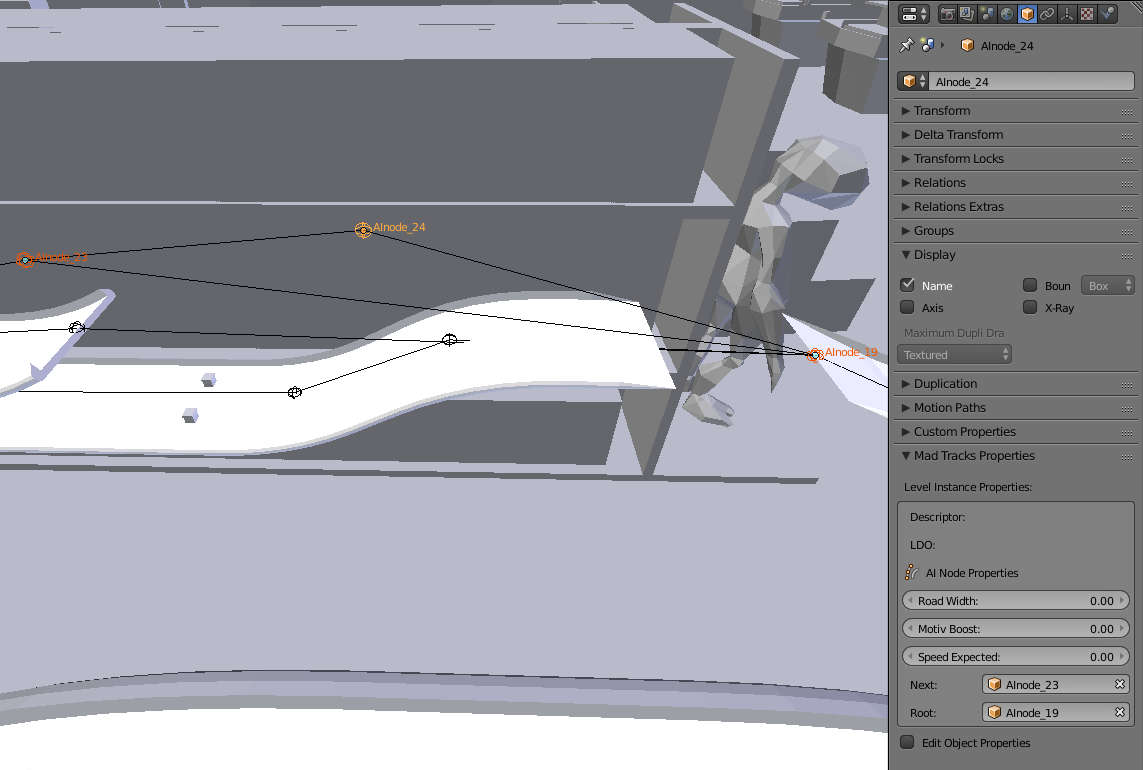
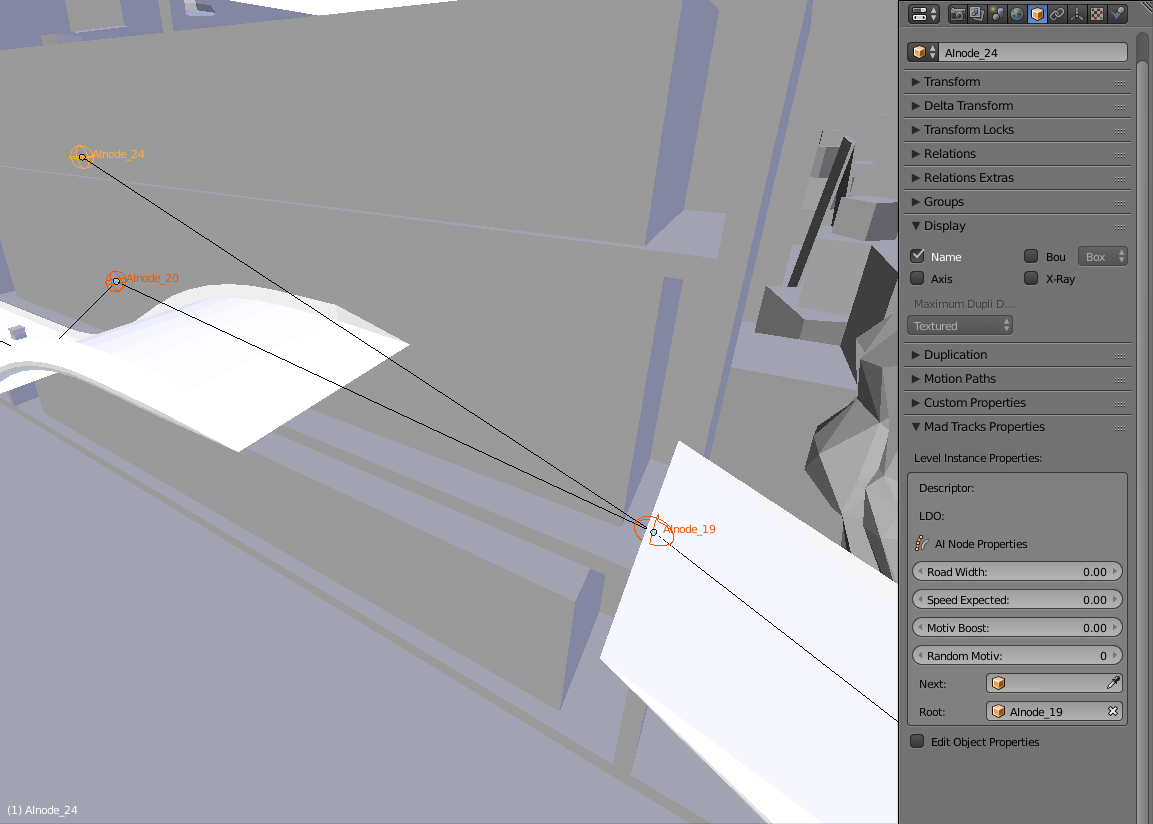
Rework of the add-on guide, document cameras

diff --git a/io_madtracks/operators.py b/io_madtracks/operators.py
@@ -485,7 +485,7 @@ LIGHTMAP EDITOR ----------------------------------------------------------------
 class ButtonLightmapBake(bpy.types.Operator):
     bl_idname = "lightmap.bake_preview"
     bl_label = "Bake Lightmap"
-    bl_description = "Generate the lightmap image and apply it to the scene for preview"
+    bl_description = "(Destructive) Generate the lightmap image and apply it to a lightmesh for preview"
 
     def execute(self, context):
         scene = context.scene
@@ -510,8 +510,12 @@ class ButtonLightmapBake(bpy.types.Operator):
         return wm.invoke_props_dialog(self)
 
     def draw(self, context):
+        obj_idx = context.scene.objects.find("Lightmesh")
         row = self.layout.row()
         row.label("Baking may take a minute.", icon="INFO")
+        if obj_idx == -1:
+            row = self.layout.row()
+            row.label("Objects will be merged together. Proceed?", icon="QUESTION")
 
 
 """

diff --git a/io_madtracks/common.py b/io_madtracks/common.py
@@ -40,6 +40,7 @@ ERRORS = {}  # Dictionary that holds error messages
 # If True, more debug messages will be printed
 DEBUG = True
 
+# NOTE modifying this value will break quite a few things
 SCALE = 1
 
 

diff --git a/docs/ADDON_GUIDE.md b/docs/ADDON_GUIDE.md
@@ -1,135 +1,182 @@
 ## Blender controls
 
-Quick list of the most used key combinations when using the add-on, for those unfamiliar with Blender (there will still be a big learning curve though):
- 
-Move object: ***G + X/Y/Z (+ X/Y/Z for local axis)***, you can enter a distance with the numpad or use the mouse  
-Rotate object: ***R + X/Y/Z (+ X/Y/Z for local axis)***, you can enter an angle with the numpad or use the mouse  
-Duplicate object: ***Alt+D***  
-Reset view on selected object(s): ***Numpad .***  
-Snap 3D cursor to selected object and vice-versa: ***Shift+S***  
-
+Quick list of the most used key combinations when using the add-on for those unfamiliar with Blender (there will be a learning curve).  
 All of these controls should be used in Object mode. Moving or rotating a mesh in Edit mode won't be picked up by the level exporter.
+ 
+Move objects => `G + X/Y/Z (+ X/Y/Z for local axis)`, you can enter a distance with the numpad or use the mouse  
+
+Rotate objects => `R + X/Y/Z (+ X/Y/Z for local axis)`, you can enter an angle with the numpad or use the mouse  
+
+Duplicate objects => `Alt+D`, preferred over `Shift+D`  
+
+Reset 3D view on selected objects => `Numpad .`  
+
+Snap 3D cursor to selected objects and vice-versa (useful before importing assets) => `Shift+S`  
 
 ## Main panel
 
-The main panel is accessible on the left of the 3D view in Object mode (hidden in Edit mode). All add-on features are regrouped here.  
-
 ![Main Panel](../images/main_panel.png)
 
-From top to bottom:  
-**1. Import/Export subpanel** buttons will open the file browser to import/export assets from/to the extracted data.zip file. The extracted gama data folder path pasted in this subpanel is needed to automatically import other necessary files from the folder (like texture files if a model is imported).  
-**2. Trackparts subpanel** buttons will add/select/delete trackparts and help to organize level trackpart sequences in a way the game can understand.  
-**3. AI Paths subpanel** buttons will add/link AI nodes and help to organize level AI paths in a way the game can understand.  
-**4. Lightmap subpanel** buttons will destructively setup the scene for lightmap baking and allow to (re)generate a lightmap texture applied to the scene for preview.
+The main panel is accessible on the left of the 3D view in Object mode (hidden in Edit mode). All add-on features are here. From top to bottom:  
+* **Work folder path**, needed to automatically import other necessary game files (like importing texture files if a model is imported).  
+* **Import/Export** buttons will open the file browser to import/export game files.  
+* **Trackparts subpanel** buttons will create and help to organize trackpart sequences in a way the game can understand.  
+* **AI Paths subpanel** buttons will create and help to organize AI paths in a way the game can understand.  
+* **Lightmap subpanel** buttons will *destructively* setup the scene for lightmap baking and allow to (re)generate a lightmap texture applied to the scene for preview.
+* **Cameras subpanel** buttons will create level intro/outro cameras with movement constraints allowing to edit and preview the in-game result.
 
-### Importing game assets
-
-When clicking on the "Import" button of the main panel, the file explorer opens to let you pick a file from the extracted game data folder (working outside of this folder is possible, but the operator will always look for other needed files in the game data folder).  
-When a file is selected, the file type and import options are displayed at the bottom of the left side bar. INI files are used for many types of game files, so the INI type to import needs to be set correctly in the options depending on the file selected.
+## Importing game assets
 
 ![Import](../images/import.png)
 
-A list of supported files (some partially supported):  
-**.ldo (...\Gfx\models\Geometry)** A static game 3D model with materials  
-**.ini (...\Bin\Descriptors)** A game object descriptor, it can define a movable model, a light, a camera, pickup, game zone...  
-**.ini (...\Bin\Levels)** A list of static model and game object instances with positions and rotations that make up a level  
-**.dam (...\Bin\Levels)** Level settings for game rules, the world to use, intro/outro cameras and more  
-**.gra (...\Bin\Levels)** A sequence of nodes and edges for AI navigation in a level  
-**.ldl (...\Gfx\Lightmaps)** A sequence of static models with UV coordinates of a level lightmap
+When clicking on the "Import" button of the main panel, the file explorer opens to let you pick a file from the work folder (working outside of this folder is possible but not recommended).  
+When a file is selected, the file type and import options are displayed at the bottom of the left side bar.  
+A list of supported file types (some partially supported):  
+* `.ldo (...\Gfx\models\Geometry)`  
+A static game 3D model with materials  
+* `.ini (...\Bin\Descriptors)`  
+A game object descriptor, it can define a movable model, a light, a camera, a pickup, a game area...  
+* `.ini (...\Bin\Levels)`  
+A list of static model and game object instances with positions and rotations that make a level  
+* `.dam (...\Bin\Levels)`  
+Level settings for game rules, the world to use, intro/outro cameras and more  
+* `.gra (...\Bin\Levels)`  
+A sequence of nodes and edges for AI navigation in a level  
+* `.ldl (...\Gfx\Lightmaps)`  
+A sequence of static models with UV coordinates of a level lightmap
+
+If a `.ini` file is selected, the specific INI type needs to be set correctly in the options.
 
 #### Tips
 
-* Don't forget to choose the INI type in the import options, otherwise you will trigger a runtime error when importing a .ini file with the wrong type set.
-
-* When importing a level, importing the .ini file will give you most of the level geometry, but it's sometimes necessary to also import the .dam file since the optional level skybox and world model are stored there. Some levels are located at the bottom of the skybox, far below the 3D view origin.
+* When importing a level, importing the `.ini` file will give you most of the level geometry, but it's sometimes necessary to also import the `.dam` file since the optional level skybox and world geometry are defined there. Some levels are located at the bottom of the skybox, far below the 3D view origin.
 
 * The add-on has trouble importing multiple levels correctly in the same Blender session. It's better to open a new session instead of deleting the previous level from the scene.
 
 ## Making a level
 
-The add-on can be used to import, edit or create a level from scratch. A lot of effort was put in simplifying and automating the level editing process, but you will still need time and motivation to make your first fully-playable level, especially if you are new to Blender.  
-**Important tip**: save your project regularly as Blender can crash randomly when updating the add-on custom properties and links.  
-**Important tip 2**: keep your mouse on any UI field or button to get tooltips. They are the most detailed and up to date add-on documentation.
+The add-on can be used to import, edit or create a level from scratch. A lot of effort was put in simplifying and automating the level editing process, but you will still need perseverance to finish your first fully-playable level, especially if you are new to Blender.  
+After reading this chapter, I encourage you to import original levels and play with them before diving into your own level.
 
-#### Tips
-
-* Importing an existing level .ini file is the recommended way to start making a level, but there will be lots of instances to delete, even with the "Import Raceline" option disabled. After importing, hitting *Space* and typing "Select Pattern" will allow to select all instances of an object you wish to delete by typing part of the object name between wildcard (\*) characters.
+**Save your project regularly** as Blender can crash when updating the add-on custom properties and links.  
+Keep your mouse on any UI button or field to get tooltips.
 
 ### 1) Placing level instances
 
-Level instances in this context is every object which isn't a trackpart (start/finish, checkpoints, road pieces). Those are handled by the trackparts editor (see next chapter).
+Level instances are game assets imported and placed in the scene to make a level. They are exported in the level's `.ini` file with their individual position and rotation.  
+Level instances can either be `.ldo` files or `.ini` descriptors.
+
+![Level instance](../images/level_instance.png)
+
+Taking the tumbling toy bunny as an example, you can import the `US_Toy_Lapin.ldo` file for the model only, or import the `Toy_Lapin.ini` descriptor for the model and the tumbling physics. ("Lapin" means "Rabbit", editing levels will definitely expand your French vocabulary).  
+You can select an instance and go to the Object Properties window to check if it was imported as a static model or as a descriptor. When looking at the bottom right corner of this picture, the name of the descriptor is present, so this bunny will have physics.
+
+In a level editing context, trackparts (starts, checkpoints, finishes, road pieces) are level instances that shouldn't be imported directly. They must be handled with the trackparts editor (see next chapter).
 
 #### Tips
 
-* When importing an instance to add to your level, make sure the the "As Level Instance" import option is checked.
+* Importing an existing level .ini file is the recommended way to start making a level, since some of the environments are actually made of level instances. But there will be lots of level-specific instances to delete, even after disabling the "Import Raceline" option to skip trackparts and collectibles. After importing, hit *Space* and type "Select Pattern" to select all instances of a game asset by typing part of its name between wildcard (\*) characters.
 
-* Instances are imported in the scene at the 3D cursor position. You can right click on a surface in the 3D view to set the cursor position before importing, or else press *Numpad .* after importing to focus on the asset and place it manually.
+* When importing a level instance, make sure the "As Level Instance" import option is checked. This imports an asset in a simplified and reusable way, suited for level editing.
 
-* When rotating an object in the level, hit the *X*, *Y* or *Z* key a second time to rotate on the local axis. This is sometimes much easier than rotating on the global axis.
+* Instances are imported in the scene at the 3D cursor position. You can right click on a surface in the 3D view to set the cursor position there, thanks to the "Cursor Depth" option enabled when setting up the add-on. Else press *Numpad .* after importing to focus on the asset and place it manually.
 
-* When moving an object in the level, hit the *X*, *Y* or *Z* key a second time to translate on the local axis. This is sometimes much easier when moving an object that was rotated.
+* When rotating an instance, hit the *X*, *Y* or *Z* key a second time to rotate on the local axis. This is sometimes much easier than rotating on the global axis.
 
-* Blender gizmos are enabled by default and are fine for simple adjustments, but most of the time it will be quicker to disable them and use the magnet tool instead, which will snap the object to surfaces of other objects when moving it.
+* When moving an instance, hit the *X*, *Y* or *Z* key a second time to translate on the local axis. This is sometimes much easier when the instance has been rotated. Blender gizmos are enabled by default and are fine for simple adjustments, but most of the time it will be quicker to disable them and use the magnet tool instead, which will snap the instance to surfaces of other instances when moving it. Look at the bottom toolbar of the picture above for reference.
+
+* When duplicating an instance, using *Alt+D* is better for convenience and performance since all instances of a game asset will share meshes/materials data (unlike *Shift+D*).
 
 * Importing directionnal light descriptors will make the objects in the 3D view flicker, it will be fixed after rotating the light to the desired sun angle.
 
-* When duplicating an object in the level, using *Alt+D* is better for convenience and performance since objects will share the mesh/material data (unlike *Shift+D*).
-
 ### 2) Creating trackpart sequences
 
-Trackparts are level instances with a twist: they are linked together in sequences for the game to calculate their position/rotation, as some trackparts are marked as "inverted" to reuse models (a right turn is a left turn rotated 90°, a down slope is an up slope rotated 180° etc...).  
-The trackparts editor (Trackparts subpanel of the Main panel) provides buttons to help maintain trackpart sequences and visualize how the game will load them.
+Trackparts are level instances with a twist: they can be linked together in sequences to have their position/rotation calculated by the game at load time. The main reason for this is that some trackparts are marked as "inverted" in their descriptor to reuse models (a right turn is a left turn rotated by 90°, a down slope is an up slope rotated by 180° etc...).  
+The trackparts editor (Trackparts subpanel of the main add-on panel) provides buttons to build trackpart sequences and see how the game will load them.
 
-When clicking on a + button, the default import position is the 3D cursor, or it will be appended to the selected trackpart in the 3D view if there is one.
-Checkpoints can be appended to a trackpart, but they will never be part of a sequence.
+![Trackpart](../images/trackpart.png)
+
+Trackparts `.ini` descriptors are organized by category and can be picked from the dropdown menus. They can also be picked by clicking on a trackpart in the 3D view using the eyedrop tool below the dropdown menus.  
+
+When clicking on the corresponding "+" button, the trackpart will either be:
+* imported at the 3D cursor if no trackpart is selected in the 3D view, as the start of a sequence
+* imported at the endpoint of the trackpart selected in the 3D view, as the next trackpart of a sequence
+
+The 3D view selection is automatically updated to let you click the "+" button consecutively.
+
+Trackparts that mark the start of a sequence are the only ones that will have their position/rotation exported in the level's `.ini` file, the other trackparts will be calculated by the game.
+
+Trackparts that can be respawned from (starts, checkpoints) can be imported at the endpoint of a selected trackpart, but they will always be isolated in their own sequence as they will often need to be raised manually to have their respawn point at the road level (otherwise cars can get stuck after respawning).
 
 ![Trackpart props](../images/trackpart_props.png)
 
-The "Next" object field you see in the bottom right corner of the picture is set automatically when clicking on a + button with a trackpart selected in the 3D view. It sometimes needs to be updated manually to fix trackparts linking, like after replacing the deleted trackpart in the middle of this sequence. The "Select Linked" button in the editor will help you visualize the links since it follows the "Next" property until it is empty or invalid.  
-
-Another case where manually editing the "Next" object field is necessary is to rotate trackparts of a sequence individually to make slopes. Clearing the "Next" field of all the slope trackparts will export their individual location/rotation instead of letting the game compute them, which would result in a flat road.
+The trackparts editor's job is to automatically manage trackpart sequences based on your actions. Sometimes it won't be able to, like after deleting a trackpart from a sequence like in this picture.  
+You can edit the sequences yourself by going to the Object Properties window with a trackpart selected. You will see a "Next" object pointer like in the bottom right corner of the picture, allowing you to tell which trackpart is the next one in the sequence.  
+The "Select Linked" button in the trackparts editor will help you visualize sequences by selecting the "Next" object from the selected trackpart until it is empty or invalid.
 
 ![Trackpart slope](../images/trackpart_slope.png)
 
-Finally, you need to define the checkpoint order. This is done by renaming the checkpoints in alphanumerical order. Make sure the "Use Checkpoint Names" INI export option is enabled when exporting the level instances.
+Another case where manually editing the "Next" object pointer is necessary is to rotate trackparts of a sequence individually to make slopes. Clearing the "Next" field of all the slope trackparts will separate them in their own sequence to avoid the game calculating them as a flat road.
+
+The last button available in the trackparts editor, "Recalculate All", can be used to recalculate all trackparts position/rotation based on the trackpart sequences. You know all sequences are correct when nothing moved after clicking this button, otherwise you need to go back and fix the "Next" object pointers until it is the case.
+
+Finally, you need to define the checkpoint order. This is done by renaming the checkpoint object in alphanumerical order. Make sure the "Use Checkpoint Names" INI export option is enabled when exporting the level instances.
 
 #### Tips
 
-* Importing stock levels will help you understand how trackparts were handled in the original game.
+* Duplicating an entire sequence with *Alt+D* is possible. It can be used to stick two wooden roads side-by-side.
 
-* You will know all trackparts links are correct when nothing moved after clicking the "Recalculate All" editor button, which will also clean up invalid links.
+* "Recalculate All" can be used to stitch two sequences together after manually setting the "Next" object pointer from the end of road 1 to the start of road 2.
 
-* Duplicating an entire sequence with *Alt+D* is possible. It can be used to stick two wooden roads side-by-side, or stitch two roads together by manually setting the "Next" object field from end of road 1 to beginning of road 2 and clicking "Recalculate All".
+* The two tips above allow to easily iterate over a raceline, by duplicating sequences to save them, trying new ideas and stitching them back and forth until you have something that feels good to play.
 
 ### 3) Creating AI paths
 
-AI paths are made of nodes with a position and link(s) to the next node(s). They are used for AI navigation and to define the track boundaries.  
-The AI paths editor (AI Paths subpanel of the Main panel) allows to place AI nodes using the 3D cursor position with automatic linking to the selected node.
+AI paths are used for AI navigation and setting the track limits. They are made of nodes and edges linking two nodes each. This system allows for unlimited branching paths, there is no documented limitation on what the game can handle.  
+The AI paths editor (AI Paths subpanel of the main add-on panel) allows to create AI nodes with automatic linking and visualize how the paths will be exported.
+
+![AI nodes](../images/ai_nodes.png)
+
+When clicking on the "Add Node" button, a node is created at the 3D cursor. If another node is selected in the 3D view, an edge will be drawn between the two nodes. Edges between nodes are updated automatically only when adding a node, but you can update them anytime using the "Redraw Edges" editor button.
 
 ![AI props](../images/ai_props.png)
 
-Similarly to the trackparts editor, the AI paths editor uses the "Next" object field of each AI node for the forward links. But this is not enough for branching paths, since a node has multiple next nodes. For this, AI nodes also have a "Root" object field you need to set manually to point to the root node of the branching paths. All links to a root node will be converted to forward links when exporting the paths. This allows to create and edit complex branching paths rather quickly.  
-AI nodes also have various properties to make the track boundary bigger or smaller, regulate the AI opponents speed and path-taking.
-
-The editor also provides a button to draw the "Next" and "Root" links to visualize how the paths will be exported.  
-AI opponents immediately respawn when they are too far from the path, meaning that jumps often have multiple paths to prevent AI cars from respawning mid-air.  
-
-![AI paths](../images/ai_paths.png)
-
+Similarly to trackparts, you can edit the edges between nodes yourself by going to the Object Properties window with a node selected. You will see a "Next" object pointer like in the bottom right corner of the picture.  
+But this is not enough for branching paths, since a node can only point to a single "Next" node. To solve this, nodes also have a "Root" object pointer you need to set manually to point to the root node of the branching paths. See the picture above as an example: nodes 20 and 24 on the left both have node 19 on the right as their "Root" node.  
+Nodes are renamed with their IDs after exporting the level `.gra` file, but this is not necessary if you click on the eyedrop icon to set the "Next" and "Root" nodes.  
+AI opponents immediately respawn when they are too far from the path, meaning that jumps often have vertical branching paths to prevent AI cars from respawning mid-air (for example if they used a boost at the ramp).  
+Nodes also have properties to adjust the track limits, regulate the AI opponents speed and path-taking.
 
 #### Tips
 
-* Importing stock levels will help you understand how AI paths were handled in the original game. You will for example see that AI paths don't loop at the start even for lap races.
+* Switching to Solid mode in the 3D view makes it much easier to see the AI nodes and edges.
 
-* Switching to Solid mode in the 3D view makes it much easier to see the AI nodes and links.
+* You can select the edges and hit *Tab* to switch to edit mode, this will highlight the paths and show the direction of the edges. Editing the edges themselves doesn't have an effect, they are here for visualization only.
 
-* After drawing the paths, hit *Tab* to switch to edit mode, this will highlight the paths and show the direction of the links.
+* AI paths don't loop at the start even for lap races.
 
-* Level .dam files have a line called "RoadWidth", which is usually set between 25 and 28. This allows to set the base track boundaries. Edit the "Road Width" AI node object property to override the base width at that node, useful when the track surface is wider or smaller than trackparts.
+* Level `.dam` files have a line called "RoadWidth", which is usually set between 25 and 28 (width of trackparts). This allows to set the base track limits at every node. Edit the "Road Width" AI node object property to override the base width at that node. You should do it when the track surface becomes wider or more narrow.
 
-* Don't worry about ".00x" suffixes to AI node names when adding or renaming them, this is accounted for by the exporter. It happens when a node with the same name was previously deleted from the scene.
+### 4) Editing intro/outro cameras
 
-### 4) Creating a lightmap
+Level intro/outro cameras can be used to show the starting grid or the main attraction like for most mini-games in an arena. The cameras are looking at a point in space while rotating around another point. They can also have an up and down movement while rotating.  
+The cameras editor (Cameras subpanel of the main add-on panel) allow to edit, preview and export intro/outro cameras settings.  
+Click the "Create Cameras" editor button to create the intro and outro cameras at the 3D view origin. Each camera has a "LookAt" and a "RotCenter" marker.
+
+![Intro camera](../images/intro_camera.png)
+
+The intro camera markers are pre-selected, move the selection where the intro camera should look at. You can then move only the "RotCenter" marker for an interesting effect (see the picture).  
+Press *Alt+A* to start the camera rotation animation.  
+Press *Numpad 0* to switch between 3D view and camera view (scroll the mouse wheel down to unzoom).  
+Select and move the camera itself on the Z axis to adjust its height (if you're in camera view, click on the rectangle outline to select the camera).  
+Press *Alt+A* again to stop the animation.  
+Press *Ctrl+Shift+DownArrow* to reset the camera rotation before moving it on the X axis to adjust the rotation radius (exit camera view beforehand).
+
+Select the outro camera and press *Ctrl+Numpad 0* to set it as active. Select the outro camera markers and repeat the previous steps.
+
+Once done, click the "Export Cameras" editor button and paste the cameras settings in the level `.dam` file. You can set the "UpSpeed" parameter to 1.00000 to enable the up and down camera movement and adjust other values if needed. The up and down movement will be visible in Blender only after importing the `.dam` file, and you won't be able to edit the cameras freely anymore because of the animation keyframes.
+
+### 5) Creating a lightmap
 
 Disclaimer: this feature is experimental. If you can't or don't want to use a lightmap in your level, leaving the original lightmap as-is should make the game abort loading the lightmap and use its own lighting engine instead, which provides okay lighting without shadows.  
 

diff --git a/README.md b/README.md
@@ -12,13 +12,18 @@ The goal of this project is to import, edit and export them using Blender.
 
 * Import game models with materials (collision models not supported)
 * Import game objects (movable props, lights, force fields, game areas, ...)
-* Export light objects
+* Export light and area objects
 * Import/export levels with object instances, AI paths, intro/outro cameras, lightmap
 
 Level editor:
 * Edit trackpart sequences
 * Edit AI paths
 * Generate lightmaps (experimental)
+
+Game modes supported:
+* Race (laps, A-B, elimination rules, time trial rules)
+
+All other modes may be supported, they will be added to the list when successfully tested.
 
 ## Setting up
 

diff --git a/docs/ldo_format.md b/docs/ldo_format.md
@@ -184,7 +184,7 @@ It represents a 3D model made of meshes and materials.
 | `~visibility3` |                                                    |
 | `~visibility4` | Seem like visibility related. Needs testing        |
 |                |                                                    |
-| `<unknown3>`   | A mysterious index: "_Index < m_CurrentSize"       |
+| `<unknown3>`   | Triggers out-of-bounds array traversals easily     |
 |                |                                                    |
 | `~vacnt`       | Behaves like a vertex attribute count.             |
 |                | Indicates the number of the following bytes.       |
